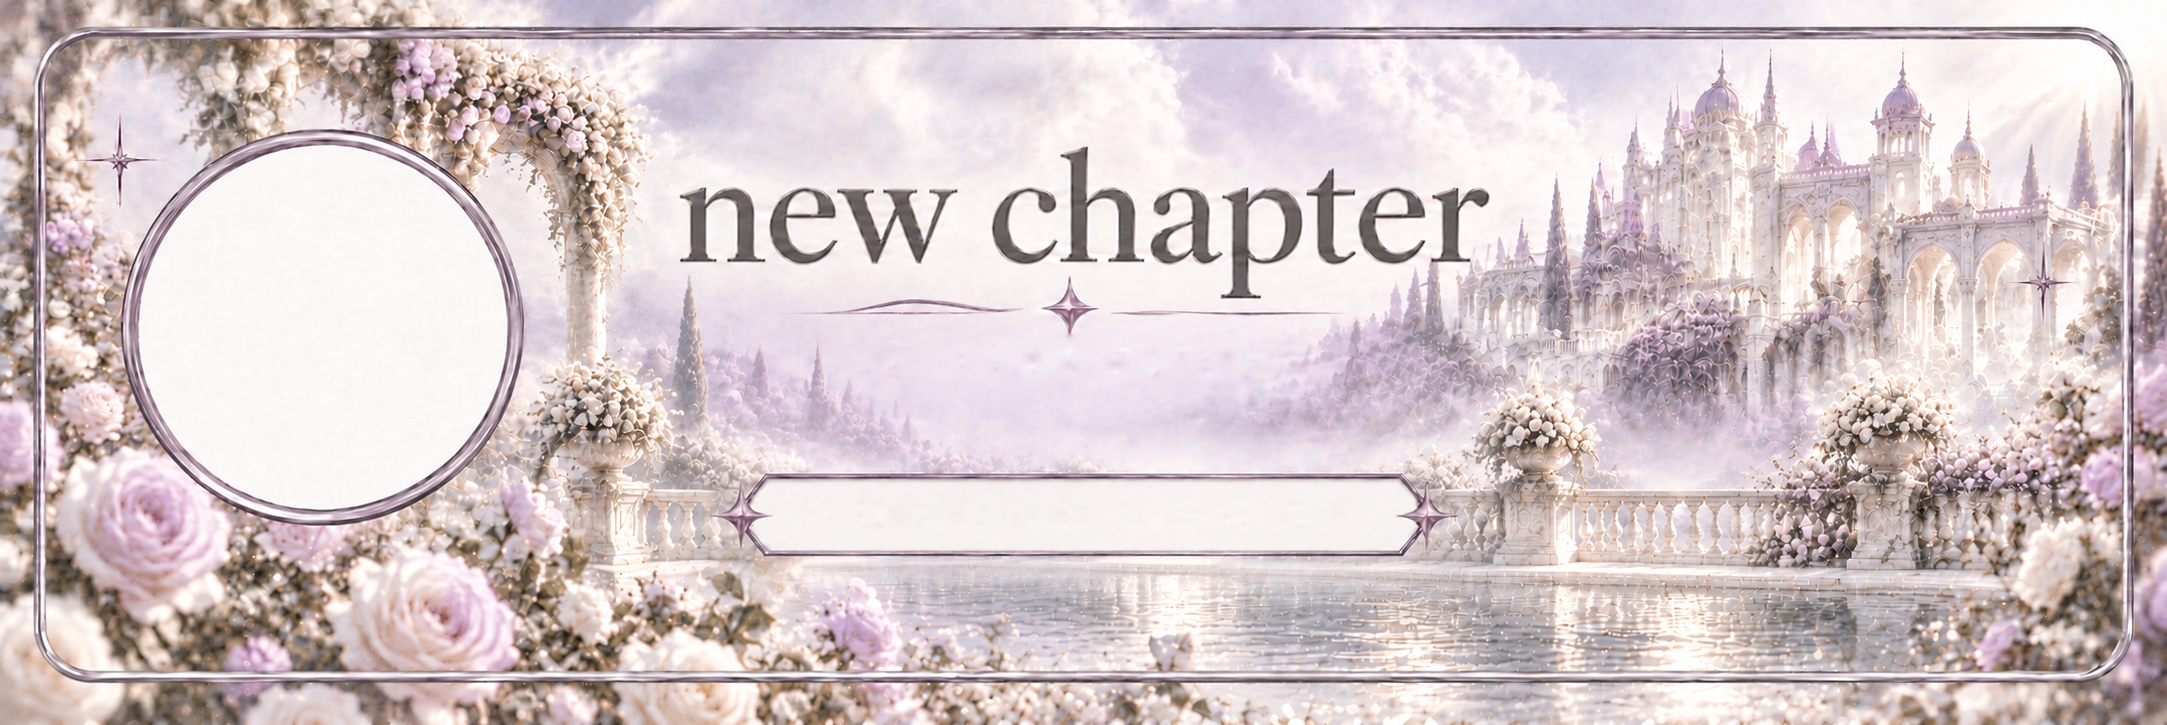
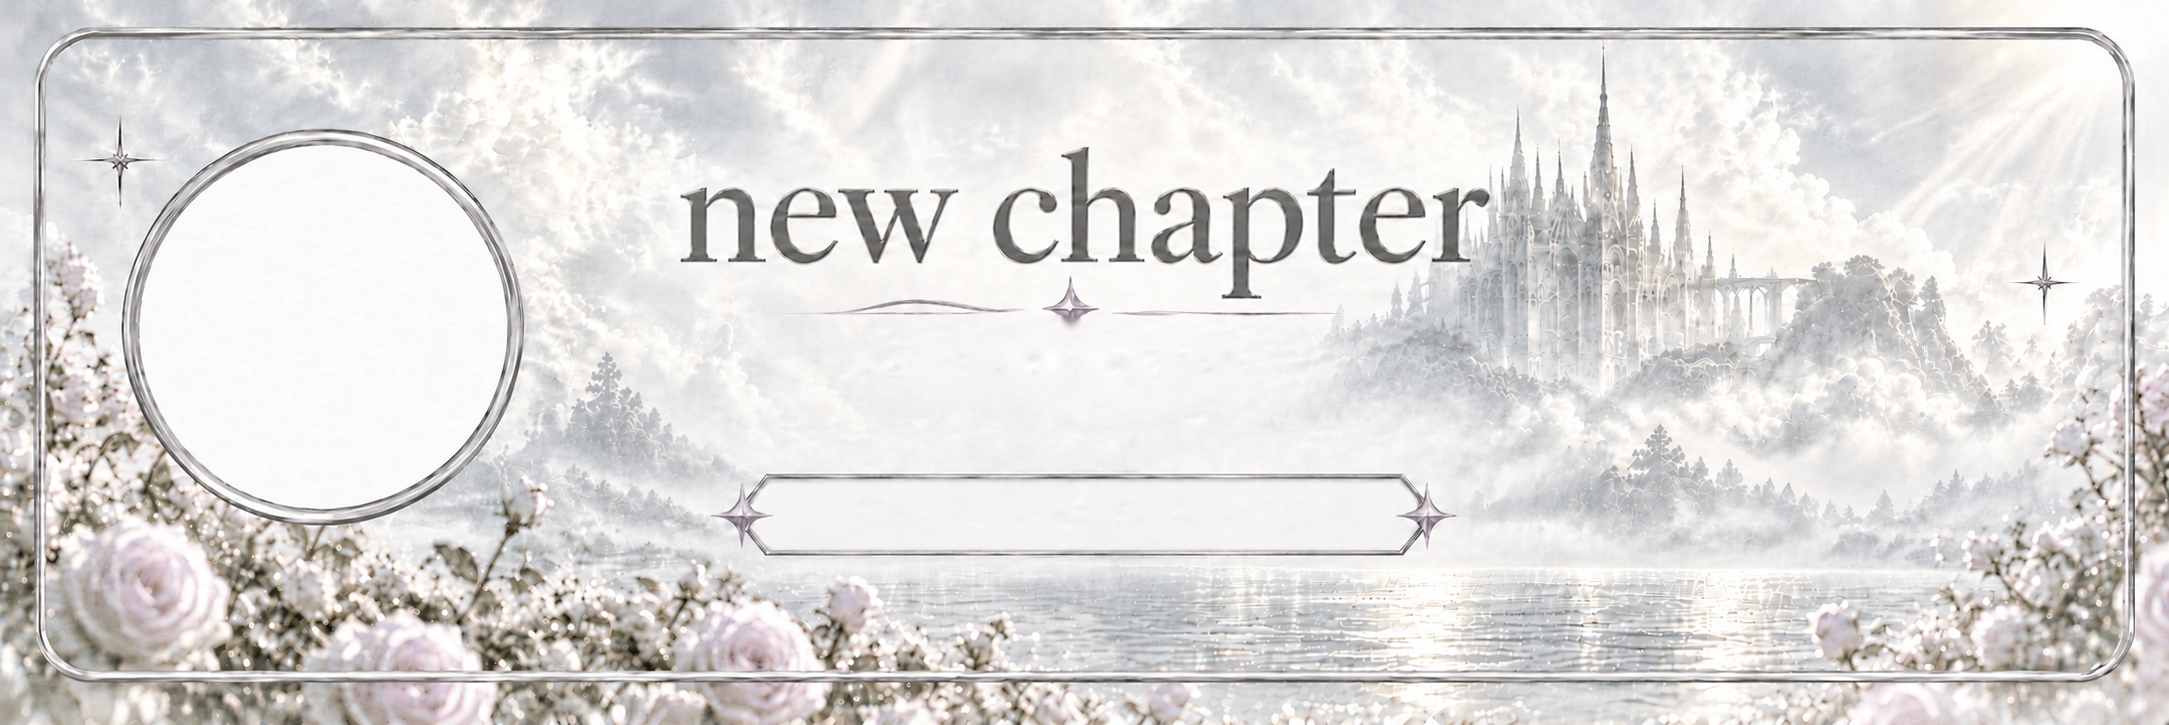
.

diff --git a/config.py b/config.py
@@ -100,7 +100,7 @@ LEVEL_EMBED_COLOR = 0x00E5FF    # für das Admin-Embed (level-config show)
 # Passend zum Entwurf: EB Garamond (Google Fonts, OFL), z. B. EBGaramond-Medium.ttf.
 CARD_FONT: str | None = None
 CARD_COOLDOWN_SECONDS = 5  # Pro Nutzer zwischen `rank`/`leaderboard`-Aufrufen (Rendern kostet CPU; 0 = aus)
-LEADERBOARD_SIZE = 10      # So viele Plätze zeigt das Leaderboard (1–25); die Top 3 stehen auf dem Podium
+LEADERBOARD_SIZE = 5       # So viele Plätze zeigt das Leaderboard (1–25); die Top 3 stehen auf dem Podium
 
 # ======================================================================
 # Text-XP
@@ -123,8 +123,8 @@ NO_XP_CHANNELS: list[int] = [1509590687010783239, 1528773508899799060, 151830044
 # Sonst: nur die Rangkarte – ohne Text und ohne Ping.
 # ======================================================================
 
-# Kanal-ID für Levelup-Karten. None = Kanal, in dem das Levelup passiert.
-# (Ein fester Kanal gilt nur auf seinem Server – auf anderen Servern wird der Levelup-Kanal genutzt.)
+# Kanal-ID für Levelup-Karten (Levelup-Bild, Ping, Rangkarte). Alles wird nur in diesen Kanal gesendet.
+# None = Kanal, in dem das Levelup passiert. Existiert die ID nicht, gibt es eine Warnung und keine Karte.
 LEVELUP_CHANNEL_ID = 1550166157183684719
 
 # ======================================================================

diff --git a/leveling/tools/make_levelup_template.py b/leveling/tools/make_levelup_template.py
@@ -2,9 +2,9 @@
 
 Nur nötig, wenn du eine neue Vorlage (mit Beispieltext) einsetzen willst:
     pip install opencv-python-headless
-    python tools/make_levelup_template.py deine_vorlage.png leveling/assets/levelup_template.png
+    python leveling/tools/make_levelup_template.py deine_vorlage.png leveling/assets/levelup_template.png
 
-Die Textboxen unten und die Koordinaten oben in leveling/levelup_card.py sind auf 2167 × 725 px
+Die Textboxen unten und die Koordinaten oben in leveling/levelup_card.py sind auf 2169 × 725 px
 gemessen – bei anderer Größe beides anpassen.
 """
 import sys
@@ -15,10 +15,10 @@ src, dst = sys.argv[1], sys.argv[2]
 img = cv2.imread(src)
 gray = cv2.cvtColor(img, cv2.COLOR_BGR2GRAY)
 
-# Textboxen (x0, y0, x1, y1) in der 2167x725-Vorlage
+# Textboxen (x0, y0, x1, y1) in der 2169x725-Vorlage
 boxes = [
-    (912, 338, 1252, 394),   # USERNAME
-    (824, 493, 1343, 537),   # ROLLENNAME (im Namensschild)
+    (908, 322, 1258, 396),   # USERNAME
+    (822, 490, 1348, 538),   # ROLLENNAME (im Namensschild)
 ]
 
 mask = np.zeros_like(gray)

diff --git a/leveling/display.py b/leveling/display.py
@@ -126,9 +126,17 @@ class DisplayMixin:
 
         channel = fallback_channel
         if cfg.LEVELUP_CHANNEL_ID:
+            # Fester Kanal: Levelup-Karten gehen nur dorthin, nie in den Kanal der Nachricht
             configured = guild.get_channel(cfg.LEVELUP_CHANNEL_ID)
-            if isinstance(configured, discord.abc.Messageable):
-                channel = configured
+            if not isinstance(configured, discord.abc.Messageable):
+                if cfg.LEVELUP_CHANNEL_ID not in _warned_levelup_channels:
+                    _warned_levelup_channels.add(cfg.LEVELUP_CHANNEL_ID)
+                    log.warning(
+                        "LEVELUP_CHANNEL_ID %s existiert in Guild %s nicht oder ist kein Textkanal – keine Levelup-Karten",
+                        cfg.LEVELUP_CHANNEL_ID, guild.id,
+                    )
+                return
+            channel = configured
         if channel is None:
             return
 

diff --git a/leveling/levelup_card.py b/leveling/levelup_card.py
@@ -11,11 +11,11 @@ from .rankcard import circle_avatar, fit_text, font_for_cap_height, to_png
 
 TEMPLATE_PATH = Path(__file__).parent / "assets" / "levelup_template.png"
 
-# --- Layout (Pixel, gemessen an der Vorlage 2167 × 725) ----------------------
-AVATAR_CENTER = (322.5, 327.0)
+# --- Layout (Pixel, gemessen an der Vorlage 2169 × 725) ----------------------
+AVATAR_CENTER = (323.0, 326.5)
 AVATAR_RADIUS = 182  # weiße Innenfläche des Silberrings
 
-TEXT_CENTER_X = 1083  # Mitte unter "new chapter" bzw. Mitte des Namensschilds
+TEXT_CENTER_X = 1083.5  # Mitte unter "new chapter" bzw. Mitte des Namensschilds
 
 # (Grundlinie y, Versalhöhe in px, max. Breite) – exakt wie im Entwurf
 NAME_STYLE = (383, 36, 700)
